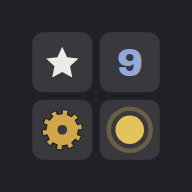
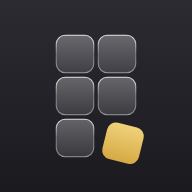
Icono nuevo: la P de cristal con la pieza dorada encajando
- icons/icon.svg e icon-maskable.svg: pentominó P con casillas de cristal y la pieza que
  falta, dorada y girada, entrando en su hueco; el maskable, reducido al círculo seguro.
- PNG regenerados; make-icons.cjs saca el maskable de su propio SVG.

Claude-Session: https://claude.ai/code/session_01R8KdPaQVvdRx7SuPQ8V4nD

Changed region(s): [[0.1562, 0.1562, 0.8438, 0.875]]

diff --git a/sw.js b/sw.js
@@ -1,6 +1,6 @@
 // Versión y lista de archivos: no se editan a mano, las escribe scripts/build-sw.mjs al hacer commit
 // <generado por scripts/build-sw.mjs>
-const VERSION = 'pzg-27dac3adaa';
+const VERSION = 'pzg-bda6846202';
 const FILES = [
   './', './index.html', './manifest.webmanifest', './css/base.css', './css/components.css',
   './css/games/akari.css', './css/games/binario.css', './css/games/gears.css', './css/games/hashi.css',
